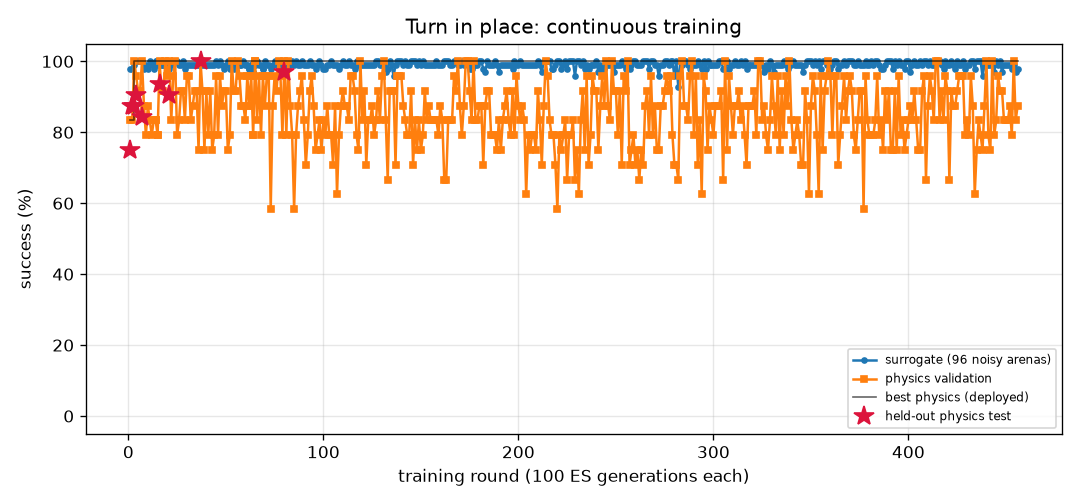
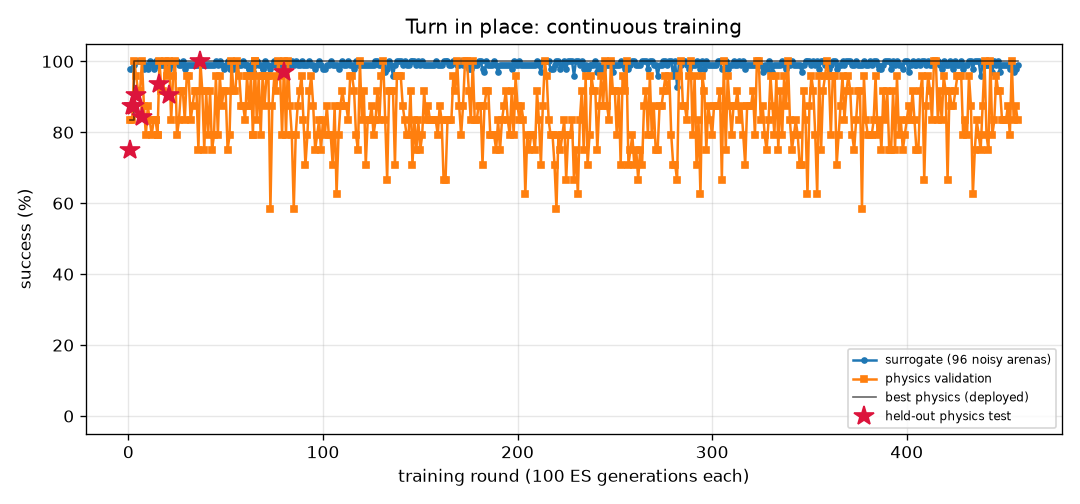
FlyLab: continuous training progress
- walk_forward: optimal, physics val 100% of 24, round 98
- turn: optimal, physics val 100% of 24, round 457
- goto: optimal, physics val 100% of 24, round 95
- odor_seek: optimal, physics val 100% of 24, round 94
- odor_avoid: optimal, physics val 100% of 24, round 487
- light_seek: optimal, physics val 100% of 24, round 283
- light_avoid: optimal, physics val 100% of 24, round 230

diff --git a/projects/09_flylab/training/light_avoid/REPORT.md b/projects/09_flylab/training/light_avoid/REPORT.md
@@ -1,14 +1,14 @@
 # Hide from light (`light_avoid`) — training report
 
-*Auto-generated by `train_brains.py`, last updated 2026-10-15T21:46:22.*
+*Auto-generated by `train_brains.py`, last updated 2026-10-16T20:23:39.*
 
 ![curve](curve.png)
 
 | | |
 |---|---|
-| rounds | 227 |
-| ES generations | 22700 |
-| physics runs | 5720 |
+| rounds | 230 |
+| ES generations | 23000 |
+| physics runs | 5792 |
 | status | **optimal** |
 | best brain | round 159: physics validation **100%** on 24 arenas, surrogate 100% |
 | held-out physics test | **100%** on 32 unseen arenas (95% CI 89%-100%) (errors: [14.4, 56.1, 58.0, 57.9, 57.5, 14.0, 14.4, 56.6, 56.8, 13.3, 14.1, 56.6, 57.6, 13.1, 57.3, 55.9, 57.2, 55.0, 55.2, 53.9, 55.2, 12.4, 53.8, 53.7, 14.1, 13.7, 55.0, 57.8, 56.2, 13.1, 52.8, 56.5]) |
@@ -17,9 +17,6 @@ Physics error per arena: mm gained away from source (> 6 without first approachi
 
 | round | level | gens | sigma | surrogate | physics val | val errors | test | note |
 |---:|---:|---:|---:|---:|---:|---|---:|---|
-| 188 | 3 | 18800 | 0.024 | 100% | 100% | [35.2, 34.4, 33.3, 36.2, 37.1, 36.3, 32.2, 14.5, 35.0, 13.5, 37.5, 37.6, 14.4, 38.3, 34.3, 37.0, 14.2, 36.6, 35.8, 14.4, 38.5, 39.2, 32.8, 38.4] |  |  |
-| 189 | 3 | 18900 | 0.024 | 100% | 100% | [55.7, 60.6, 60.3, 56.7, 60.3, 57.2, 59.0, 14.5, 52.2, 13.5, 59.5, 60.4, 14.4, 58.1, 60.4, 58.1, 14.2, 61.0, 60.9, 14.4, 57.7, 59.2, 59.0, 59.6] |  |  |
-| 190 | 3 | 19000 | 0.024 | 100% | 100% | [56.3, 58.4, 58.2, 55.6, 58.1, 56.5, 56.8, 14.5, 49.3, 13.3, 57.6, 57.9, 14.4, 55.9, 58.3, 56.2, 14.2, 58.6, 58.6, 14.4, 54.9, 57.6, 56.6, 57.0] |  |  |
 | 191 | 3 | 19100 | 0.024 | 100% | 100% | [58.5, 62.1, 62.0, 59.0, 60.4, 59.1, 61.1, 14.5, 56.2, 13.4, 60.9, 60.2, 14.4, 58.1, 62.1, 58.6, 14.2, 61.5, 62.3, 14.4, 58.0, 61.0, 61.2, 59.3] |  | restart from best |
 | 192 | 3 | 19200 | 0.024 | 100% | 100% | [49.3, 52.5, 52.0, 50.8, 53.2, 51.4, 50.5, 14.5, 48.0, 13.3, 51.3, 53.0, 14.4, 51.5, 52.1, 51.8, 14.2, 53.4, 52.8, 14.4, 50.1, 51.8, 50.6, 52.6] |  |  |
 | 193 | 3 | 19300 | 0.024 | 100% | 100% | [49.0, 53.1, 52.6, 49.5, 54.0, 50.5, 50.8, 14.5, 51.2, 46.9, 53.2, 54.0, 14.4, 53.0, 52.5, 48.7, 14.2, 54.3, 52.9, 14.4, 50.6, 53.4, 51.1, 53.5] |  |  |
@@ -57,3 +54,6 @@ Physics error per arena: mm gained away from source (> 6 without first approachi
 | 225 | 3 | 22500 | 0.024 | 100% | 100% | [40.8, 43.3, 43.8, 39.9, 39.0, 38.6, 44.3, 14.5, 38.2, 13.3, 43.3, 38.2, 14.4, 41.0, 42.7, 41.3, 14.2, 38.5, 40.8, 14.4, 41.2, 42.5, 44.2, 37.2] |  |  |
 | 226 | 3 | 22600 | 0.024 | 100% | 100% | [47.5, 50.4, 50.7, 47.4, 46.6, 45.6, 50.7, 14.5, 42.3, 13.4, 44.9, 46.0, 14.4, 46.4, 50.6, 46.2, 14.2, 47.3, 50.6, 14.4, 45.3, 47.3, 49.8, 45.1] |  |  |
 | 227 | 3 | 22700 | 0.024 | 100% | 100% | [51.7, 53.5, 53.2, 51.6, 53.1, 52.6, 52.1, 14.5, 46.9, 13.5, 51.0, 52.8, 14.4, 52.4, 53.4, 50.8, 14.2, 53.4, 53.8, 14.4, 49.9, 52.4, 51.6, 52.4] |  | restart from best |
+| 228 | 3 | 22800 | 0.024 | 100% | 100% | [54.8, 59.5, 59.2, 55.7, 59.6, 55.9, 57.8, 14.5, 55.7, 13.3, 58.5, 59.4, 14.3, 58.3, 59.3, 54.3, 14.2, 60.0, 59.6, 14.4, 57.5, 58.7, 57.8, 58.9] |  |  |
+| 229 | 3 | 22900 | 0.024 | 100% | 100% | [55.5, 60.6, 60.2, 56.1, 61.0, 56.6, 58.7, 14.5, 57.2, 13.4, 60.0, 60.9, 14.4, 58.9, 60.4, 54.8, 14.2, 61.3, 60.9, 14.4, 56.0, 59.9, 58.7, 60.4] |  |  |
+| 230 | 3 | 23000 | 0.024 | 98% | 100% | [35.4, 38.8, 37.2, 36.5, 43.0, 38.5, 34.7, 14.5, 34.0, 12.8, 39.1, 43.1, 14.4, 38.6, 37.2, 32.8, 14.2, 39.9, 38.0, 14.4, 7.4, 39.4, 34.0, 41.1] |  |  |

diff --git a/projects/09_flylab/training/odor_avoid/REPORT.md b/projects/09_flylab/training/odor_avoid/REPORT.md
@@ -1,14 +1,14 @@
 # Escape a bad smell (`odor_avoid`) — training report
 
-*Auto-generated by `train_brains.py`, last updated 2026-10-15T21:32:44.*
+*Auto-generated by `train_brains.py`, last updated 2026-10-16T20:23:04.*
 
 ![curve](curve.png)
 
 | | |
 |---|---|
-| rounds | 484 |
-| ES generations | 48400 |
-| physics runs | 8922 |
+| rounds | 487 |
+| ES generations | 48700 |
+| physics runs | 8994 |
 | status | **optimal** |
 | best brain | round 373: physics validation **100%** on 24 arenas, surrogate 97% |
 | held-out physics test | **97%** on 32 unseen arenas (95% CI 84%-99%) (errors: [62.0, 57.4, 62.6, 61.9, 59.0, 61.6, 56.5, 60.7, 31.7, 60.9, 63.1, 57.1, 61.1, 62.1, 61.5, 60.2, 62.2, 55.2, 62.1, 54.2, 61.3, 62.0, 58.0, 61.9, 59.8, 56.5, 56.3, 56.4, 56.3, 57.7, 61.9, 32.4]) |
@@ -17,9 +17,6 @@ Physics error per arena: mm gained away from source (> 6 without first approachi
 
 | round | level | gens | sigma | surrogate | physics val | val errors | test | note |
 |---:|---:|---:|---:|---:|---:|---|---:|---|
-| 445 | 3 | 44500 | 0.025 | 92% | 100% | [60.1, 55.8, 57.2, 59.3, 61.0, 60.9, 59.9, 59.0, 59.3, 60.9, 61.6, 60.8, 54.8, 58.0, 50.8, 61.2, 60.9, 60.6, 55.1, 55.8, 60.9, 61.4, 56.8, 60.3] |  | restart from best |
-| 446 | 3 | 44600 | 0.026 | 94% | 96% | [63.4, 57.3, 57.8, 61.3, 62.1, 60.8, 60.7, 40.6, 61.1, 55.9, 61.9, 60.6, 51.9, 58.7, 41.4, 60.9, 61.5, 60.4, 55.3, 59.5, 61.4, 58.6, 59.7, 51.7] |  |  |
-| 447 | 3 | 44700 | 0.028 | 95% | 96% | [63.5, 61.7, 57.3, 56.3, 61.2, 61.6, 60.8, 52.9, 61.1, 59.8, 62.0, 61.1, 52.1, 56.3, 45.0, 62.6, 61.6, 62.5, 55.0, 58.9, 61.7, 61.6, 59.4, 62.6] |  |  |
 | 448 | 3 | 44800 | 0.027 | 98% | 100% | [63.0, 58.1, 58.4, 58.7, 61.8, 62.4, 61.5, 57.1, 60.0, 61.3, 62.0, 61.3, 54.6, 55.9, 43.4, 61.5, 61.6, 62.5, 55.3, 54.8, 61.1, 61.7, 57.7, 60.7] |  |  |
 | 449 | 3 | 44900 | 0.025 | 96% | 100% | [63.6, 59.6, 57.8, 59.4, 61.9, 63.0, 61.0, 59.1, 61.2, 62.6, 62.4, 61.8, 54.7, 58.8, 46.4, 62.5, 61.5, 62.4, 55.5, 58.4, 61.5, 62.9, 59.3, 60.8] |  | restart from best |
 | 450 | 3 | 45000 | 0.026 | 98% | 92% | [62.9, 57.3, 55.8, 58.5, 61.6, 57.3, 61.2, 2.8, 60.6, 9.6, 61.7, 61.8, 54.8, 55.7, 27.0, 61.5, 61.6, 60.6, 55.2, 55.6, 61.5, 42.2, 57.9, 4.8] |  |  |
@@ -57,3 +54,6 @@ Physics error per arena: mm gained away from source (> 6 without first approachi
 | 482 | 3 | 48200 | 0.026 | 94% | 96% | [63.4, 61.1, 56.0, 58.7, 61.3, 59.2, 61.9, 13.6, 60.2, 42.4, 60.9, 62.1, 52.5, 56.2, 39.1, 60.5, 62.5, 58.3, 55.3, 60.0, 62.2, 59.3, 58.9, 44.1] |  |  |
 | 483 | 3 | 48300 | 0.028 | 94% | 96% | [63.6, 61.5, 56.4, 61.3, 60.5, 60.9, 62.2, 52.1, 60.5, 57.5, 61.8, 61.8, 52.9, 51.5, 39.2, 61.1, 62.2, 61.0, 55.2, 56.4, 62.4, 58.4, 58.7, 62.7] |  |  |
 | 484 | 3 | 48400 | 0.028 | 95% | 100% | [62.8, 57.8, 56.3, 59.9, 61.9, 61.1, 60.9, 48.8, 61.7, 58.6, 61.9, 61.9, 54.7, 56.1, 45.0, 61.5, 61.8, 61.0, 55.0, 59.3, 61.7, 57.4, 59.7, 56.6] |  |  |
+| 485 | 3 | 48500 | 0.027 | 94% | 96% | [61.9, 60.6, 56.1, 60.9, 62.2, 60.6, 62.1, 51.5, 62.0, 59.3, 61.6, 62.3, 54.8, 56.4, 48.2, 62.5, 62.2, 60.2, 55.4, 59.5, 62.2, 61.4, 59.7, 51.9] |  | restart from best |
+| 486 | 3 | 48600 | 0.026 | 97% | 96% | [61.2, 59.7, 55.5, 60.2, 61.3, 61.3, 61.5, 13.6, 61.9, 32.2, 58.5, 62.0, 51.6, 55.1, 45.7, 60.7, 61.8, 61.0, 55.0, 57.1, 61.4, 50.0, 58.8, 35.0] |  |  |
+| 487 | 3 | 48700 | 0.026 | 94% | 96% | [62.6, 57.0, 58.2, 57.9, 61.7, 61.1, 60.8, 61.4, 60.5, 61.9, 61.5, 60.0, 54.4, 58.1, 49.0, 61.8, 61.2, 61.1, 55.0, 56.3, 60.3, 61.4, 58.0, 60.3] |  |  |

diff --git a/projects/09_flylab/training/turn/REPORT.md b/projects/09_flylab/training/turn/REPORT.md
@@ -1,14 +1,14 @@
 # Turn in place (`turn`) — training report
 
-*Auto-generated by `train_brains.py`, last updated 2026-10-16T19:31:59.*
+*Auto-generated by `train_brains.py`, last updated 2026-10-16T19:44:42.*
 
 ![curve](curve.png)
 
 | | |
 |---|---|
-| rounds | 456 |
-| ES generations | 45600 |
-| physics runs | 11190 |
+| rounds | 457 |
+| ES generations | 45700 |
+| physics runs | 11214 |
 | status | **optimal** |
 | best brain | round 80: physics validation **100%** on 24 arenas, surrogate 100% |
 | held-out physics test | **97%** on 32 unseen arenas (95% CI 84%-99%) (errors: [1.6, 3.3, 6.3, 3.7, 1.1, 0.4, 2.4, 2.9, 0.1, 2.6, 0.5, 2.7, 1.5, 3.1, 4.5, 0.2, 0.5, 1.1, 2.0, 4.4, 2.8, 3.2, 0.3, 2.2, 0.5, 3.0, 0.3, 5.4, 0.4, 1.0, 4.7, 10.7]) |
@@ -17,7 +17,6 @@ Physics error per arena: deg from target heading (< 20 = success).
 
 | round | level | gens | sigma | surrogate | physics val | val errors | test | note |
 |---:|---:|---:|---:|---:|---:|---|---:|---|
-| 417 | 3 | 41700 | 0.024 | 99% | 92% | [4.7, 6.0, 10.0, 3.3, 0.8, 2.3, 4.7, 5.0, 4.1, 0.2, 4.5, 0.3, 0.7, 3.7, 2.8, 1.3, 1.1, 0.5, 3.3, 1.6, 7.5, 2.4, 3.8, 4.0] |  |  |
 | 418 | 3 | 41800 | 0.025 | 98% | 83% | [7.3, 8.5, 8.0, 3.4, 2.6, 1.0, 5.0, 0.5, 4.1, 1.7, 2.9, 1.0, 2.7, 2.0, 2.5, 1.2, 1.0, 0.2, 0.8, 1.2, 6.7, 0.7, 3.7, 1.6] |  |  |
 | 419 | 3 | 41900 | 0.025 | 100% | 96% | [10.7, 6.9, 5.4, 2.2, 17.2, 4.7, 13.3, 4.5, 6.1, 4.0, 4.9, 6.3, 2.6, 3.1, 4.8, 5.1, 6.4, 15.2, 4.7, 5.5, 2.1, 3.5, 7.5, 7.5] |  |  |
 | 420 | 3 | 42000 | 0.024 | 99% | 92% | [1.2, 0.1, 2.0, 0.8, 0.1, 2.6, 5.5, 8.4, 4.4, 3.2, 4.6, 2.4, 0.3, 0.4, 3.5, 1.9, 2.6, 2.6, 1.6, 3.0, 2.6, 2.5, 6.7, 4.3] |  | restart from best |
@@ -57,3 +56,4 @@ Physics error per arena: deg from target heading (< 20 = success).
 | 454 | 3 | 45400 | 0.025 | 99% | 100% | [3.8, 4.6, 1.5, 0.4, 13.0, 0.5, 4.5, 7.2, 4.7, 1.1, 3.3, 0.5, 2.1, 2.6, 2.9, 0.5, 0.4, 3.2, 1.4, 2.0, 3.9, 1.6, 7.1, 5.7] |  |  |
 | 455 | 3 | 45500 | 0.025 | 97% | 83% | [1.7, 3.5, 4.1, 0.5, 3.9, 1.6, 6.7, 7.0, 6.6, 3.4, 5.0, 5.2, 1.7, 1.1, 5.3, 15.2, 5.3, 14.6, 15.4, 2.7, 0.9, 0.5, 7.1, 7.2] |  |  |
 | 456 | 3 | 45600 | 0.026 | 98% | 88% | [8.2, 1.8, 5.1, 0.1, 14.5, 3.8, 5.3, 6.6, 5.0, 13.5, 3.6, 2.8, 0.9, 1.3, 4.2, 11.9, 3.1, 3.1, 13.1, 1.4, 5.4, 2.0, 4.0, 5.3] |  | restart from best |
+| 457 | 3 | 45700 | 0.024 | 99% | 83% | [6.7, 6.6, 8.4, 0.2, 2.6, 0.9, 4.3, 4.2, 4.5, 0.1, 3.7, 0.9, 1.4, 1.6, 4.8, 0.6, 0.7, 1.1, 0.4, 0.5, 3.3, 0.1, 4.4, 0.6] |  |  |

diff --git a/projects/09_flylab/training/TRAINING.md b/projects/09_flylab/training/TRAINING.md
@@ -1,15 +1,15 @@
 # FlyLab brains — continuous training log
 
-*Auto-generated by `train_brains.py`, last updated 2026-10-16T19:44:10.*
+*Auto-generated by `train_brains.py`, last updated 2026-10-16T20:23:39.*
 
 Every skill has its own brain and its own training process: surrogate ES rounds, physics validation in MuJoCo, keep-the-best selection, and a held-out physics test that is never used for selection. See each skill's report for its full round-by-round history. Mastery is progressive: passing a level (100% physics validation, >=95% surrogate) doubles the validation and test arena sets; a brain is **optimal** once it holds up at level 3 (>=95% of 24 validation arenas) AND scores >=90% on the 32 held-out test arenas. Test columns show 95% Wilson confidence intervals.
 
 | skill | rounds | ES generations | physics runs | surrogate | physics val | **physics test** | status |
 |---|---:|---:|---:|---:|---:|---:|---|
 | [Walk forward](walk_forward/REPORT.md) | 98 | 9800 | 2302 | 100% | 100% of 24 | 100% of 32 (CI 89-100%) | **optimal** |
-| [Turn in place](turn/REPORT.md) | 456 | 45600 | 11190 | 100% | 100% of 24 | 97% of 32 (CI 84-99%) | **optimal** |
+| [Turn in place](turn/REPORT.md) | 457 | 45700 | 11214 | 100% | 100% of 24 | 97% of 32 (CI 84-99%) | **optimal** |
 | [Go to a location](goto/REPORT.md) | 95 | 9500 | 2166 | 100% | 100% of 24 | 100% of 32 (CI 89-100%) | **optimal** |
 | [Find food by smell](odor_seek/REPORT.md) | 94 | 9400 | 1590 | 100% | 100% of 24 | 100% of 32 (CI 89-100%) | **optimal** |
-| [Escape a bad smell](odor_avoid/REPORT.md) | 484 | 48400 | 8922 | 97% | 100% of 24 | 97% of 32 (CI 84-99%) | **optimal** |
+| [Escape a bad smell](odor_avoid/REPORT.md) | 487 | 48700 | 8994 | 97% | 100% of 24 | 97% of 32 (CI 84-99%) | **optimal** |
 | [Walk toward light](light_seek/REPORT.md) | 283 | 28300 | 3576 | 100% | 100% of 24 | 100% of 32 (CI 89-100%) | **optimal** |
-| [Hide from light](light_avoid/REPORT.md) | 227 | 22700 | 5720 | 100% | 100% of 24 | 100% of 32 (CI 89-100%) | **optimal** |
+| [Hide from light](light_avoid/REPORT.md) | 230 | 23000 | 5792 | 100% | 100% of 24 | 100% of 32 (CI 89-100%) | **optimal** |
